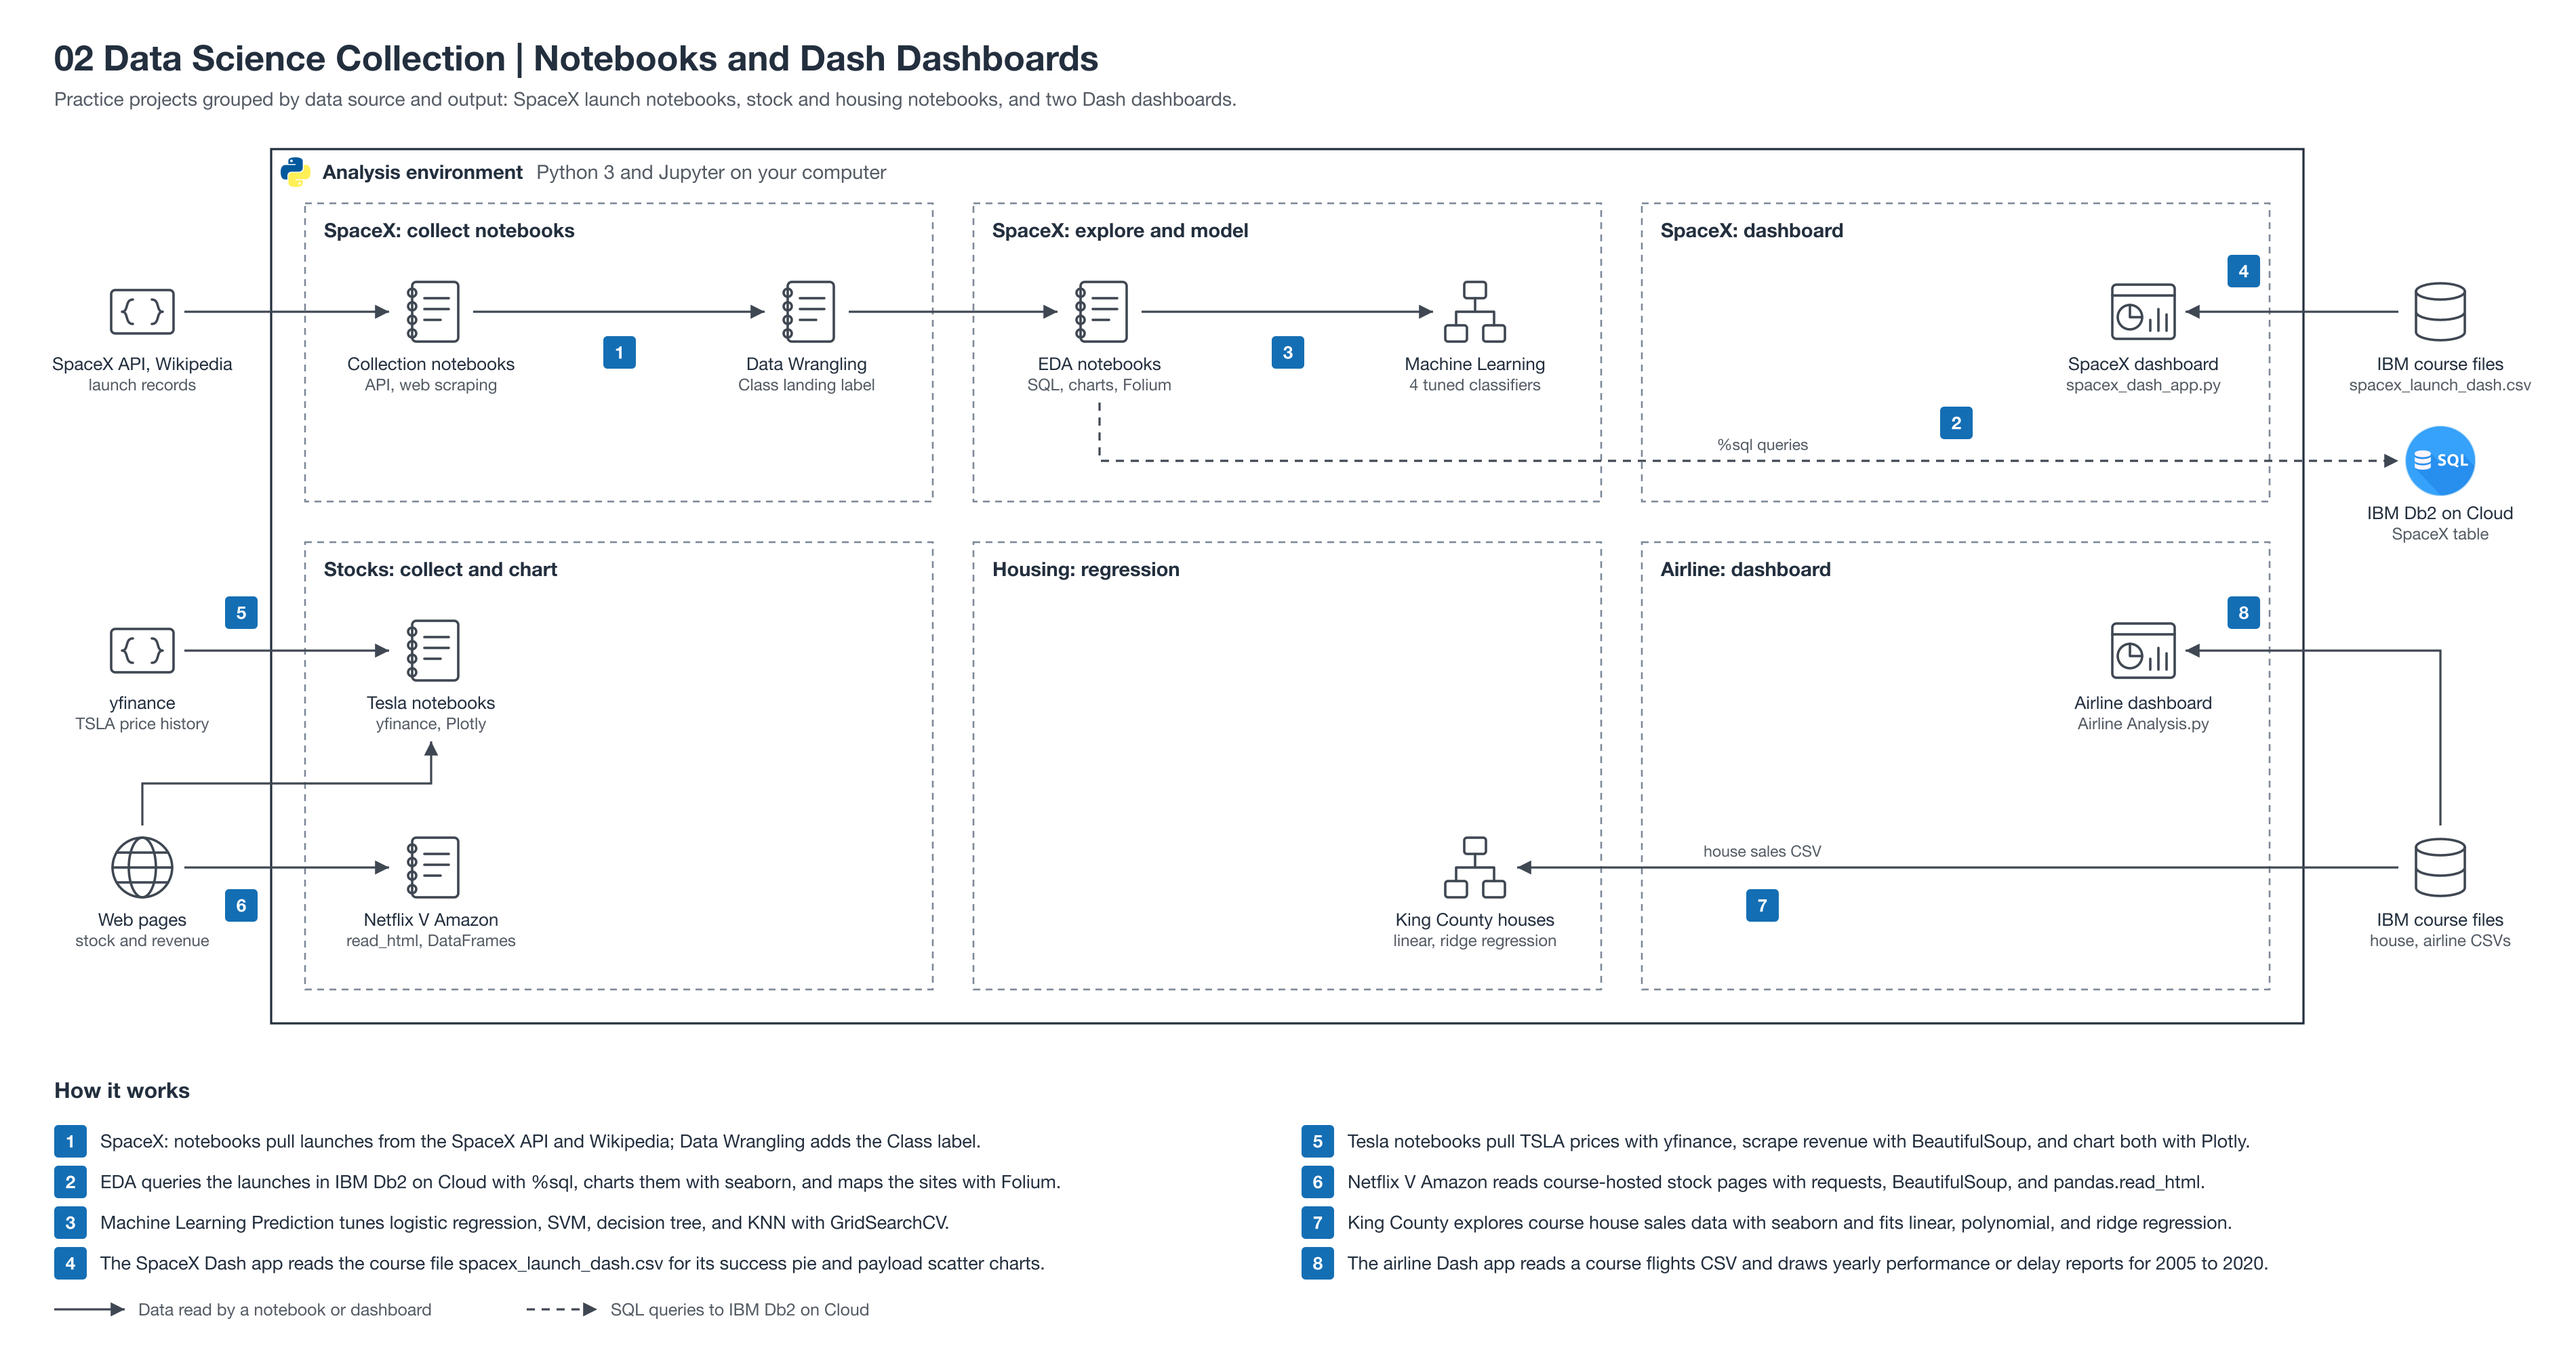
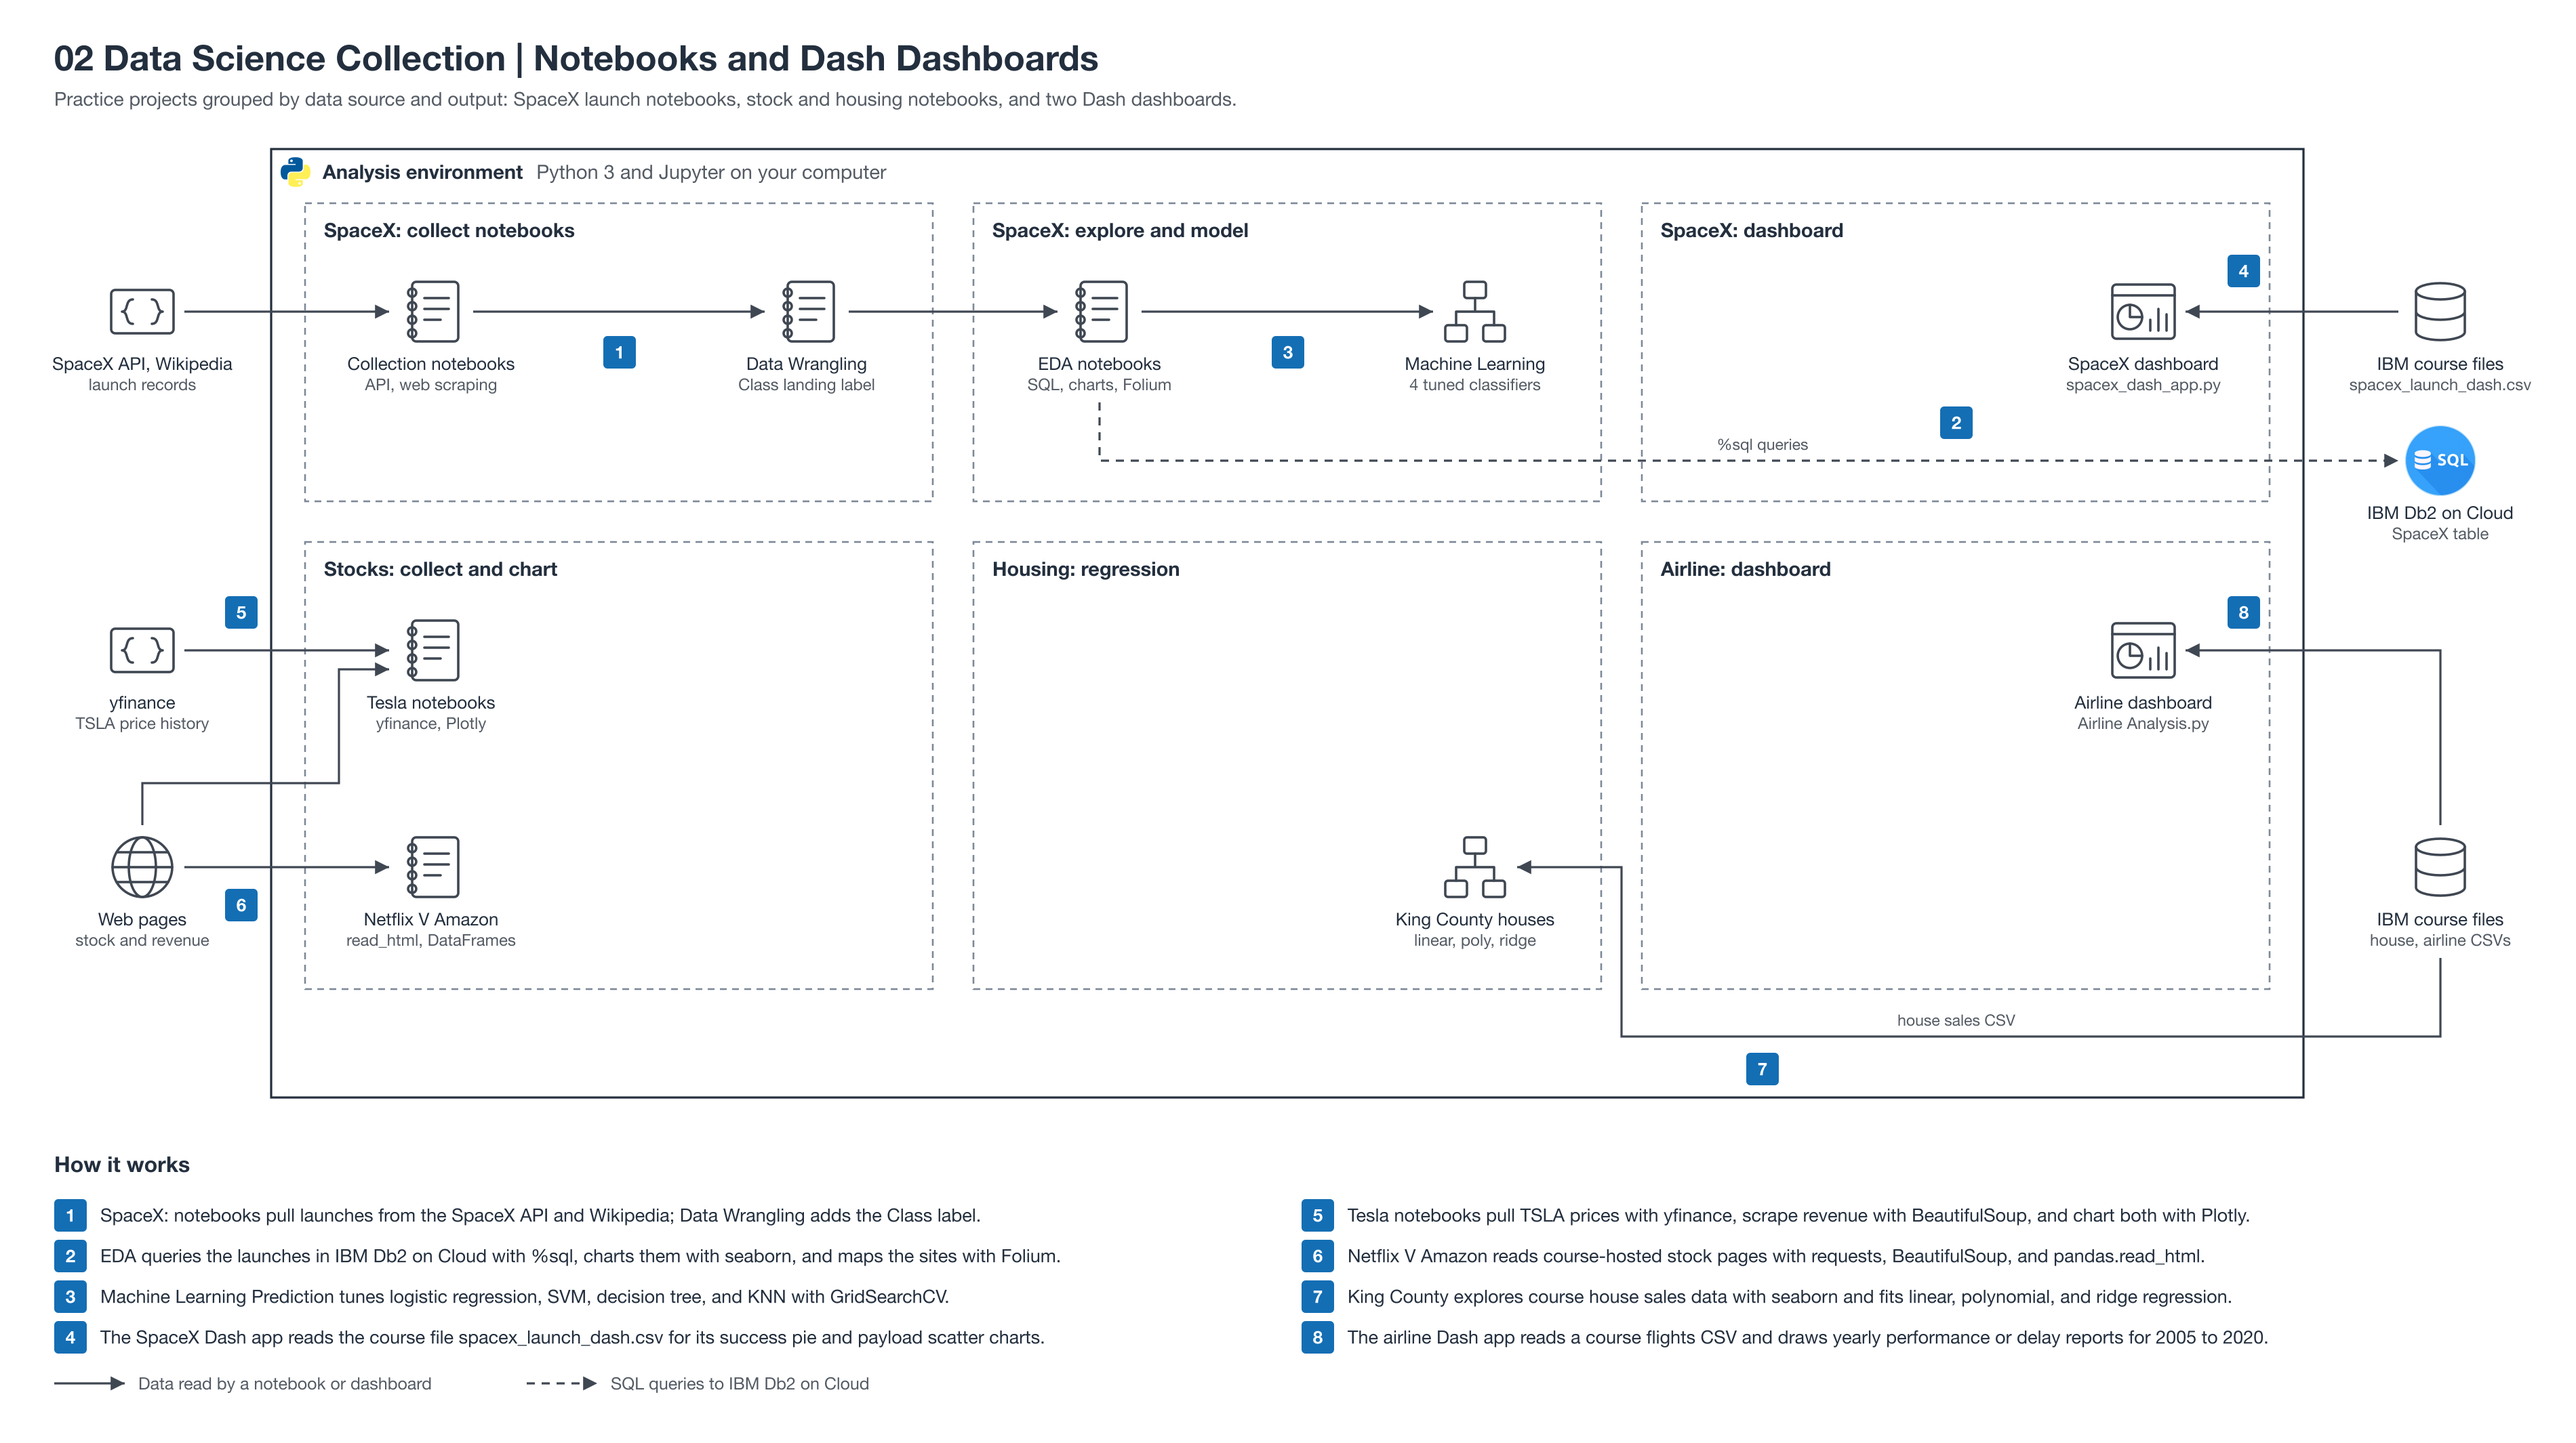
fix: address section diagram review findings

diff --git a/01-creating-and-processing-data-pipeline/README.md b/01-creating-and-processing-data-pipeline/README.md
@@ -3,7 +3,7 @@
 Run StreamSets Data Collector in an Ubuntu VM on Windows 10 (no dual boot) and build a pipeline that masks credit card numbers, converts field types, and adds calculated fields to the NYC taxi sample data. [Video walkthrough](https://www.youtube.com/watch?v=kqVJjWjjOyc)
 
 ![Creating and Processing Data Pipeline architecture](assets/architecture.png)
-The diagram shows the StreamSets pipeline inside the Ubuntu VM: the taxi CSV is split by payment type, card numbers are masked, field types are converted, and calculated fields are added before output.
+The diagram shows the StreamSets pipeline inside the Ubuntu VM: the taxi CSV is split by payment type; card records are masked and written to Local FS, and the other records get type conversion and calculated fields.
 
 StreamSets Data Collector is a lightweight engine for routing and processing data streams in real time. I first tried Windows Subsystem for Linux (WSL) through VS Code. It worked but took longer to set up, so this guide uses a VM instead.
 
